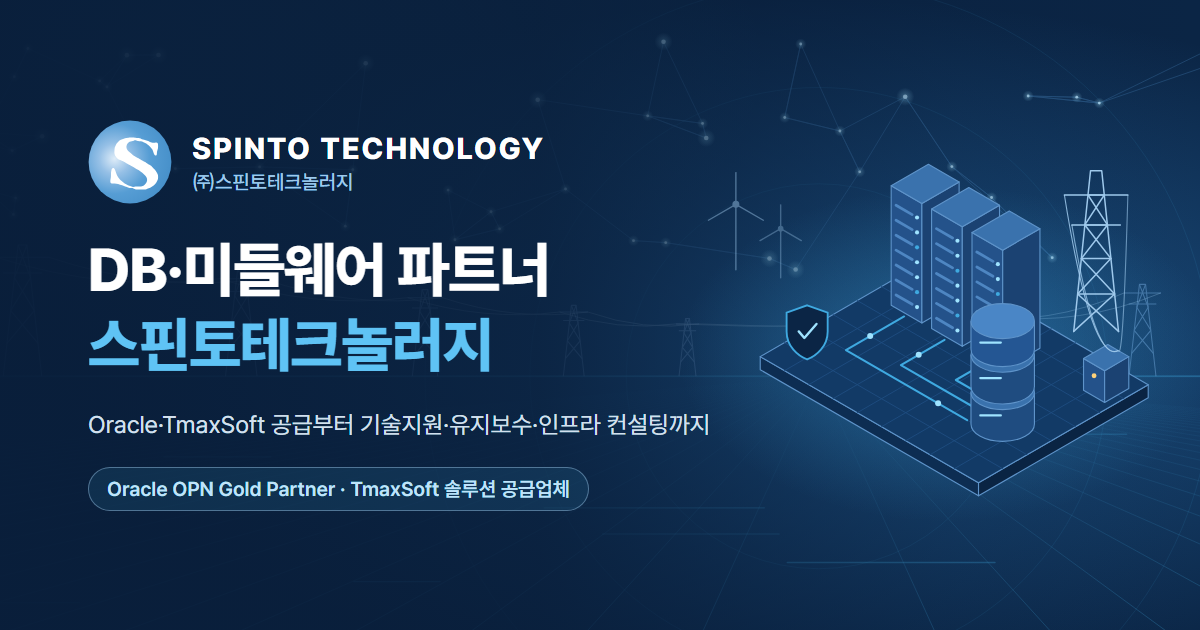
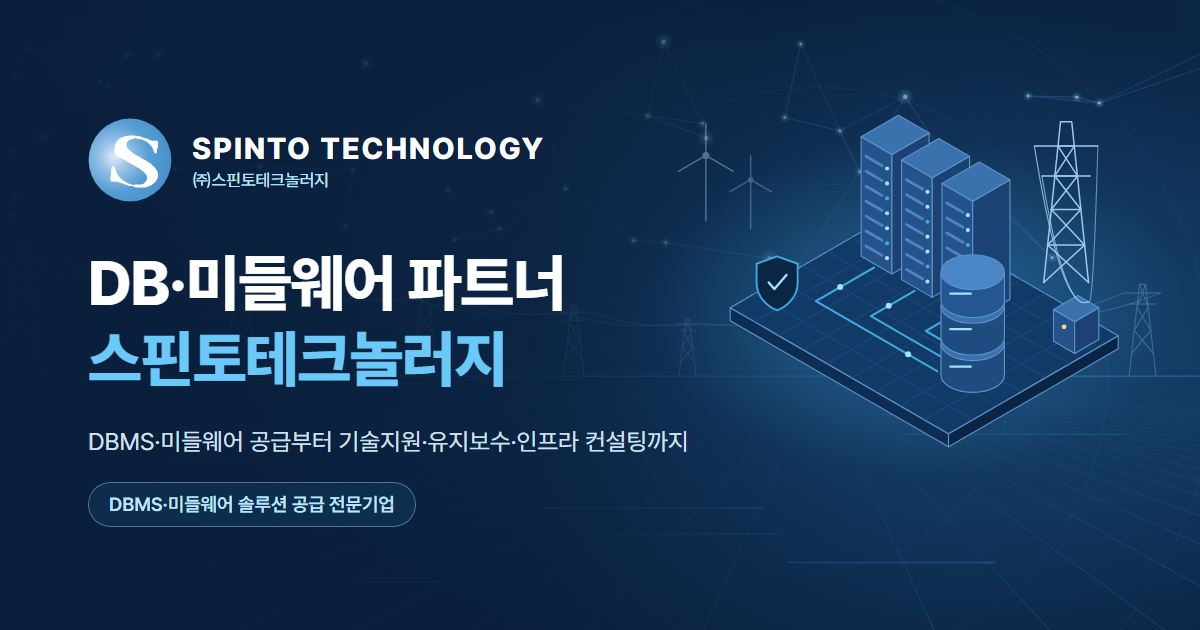
fix: 타사·고객사명 제거 및 파트너십·조직도 비공개 처리
- Hero·인사말·연혁·메타 태그에서 제조사·제품·고객사명을 일반 표현으로 교체
- 공유 미리보기 이미지(og-image) 문구 교체
- 회사개요 파트너십 섹션 삭제, 조직도는 주석 처리

diff --git a/src/data/company.ts b/src/data/company.ts
@@ -52,21 +52,21 @@ export const greeting = {
   title: ["데이터가 멈추지 않는 내일을 위해,", "기술로 신뢰를 지키겠습니다"],
   body: [
     "안녕하십니까. ㈜스핀토테크놀러지 대표이사 이현석입니다.",
-    "스핀토테크놀러지는 2009년 설립 이후 데이터베이스 관리 시스템(DBMS)과 시스템 통합(SI) 분야에 집중해 왔습니다. Oracle과 TmaxSoft의 공식 파트너로서 제품 공급부터 기술지원, 유지보수, 인프라 컨설팅까지 고객의 IT 환경 전반을 함께 책임지고 있습니다.",
-    "데이터베이스와 미들웨어는 겉으로 드러나지 않지만, 조직의 모든 업무가 그 위에서 움직입니다. 그래서 저희는 화려한 약속보다 묵묵한 안정성을 가장 중요하게 여깁니다. 전체 인력의 75%를 전문 기술인력으로 구성하고, 한국전력과 발전사를 비롯한 공공·민간 고객의 시스템을 현장에서 직접 지원해 온 것도 그 때문입니다.",
+    "스핀토테크놀러지는 2009년 설립 이후 데이터베이스 관리 시스템(DBMS)과 시스템 통합(SI) 분야에 집중해 왔습니다. 제품 공급부터 기술지원, 유지보수, 인프라 컨설팅까지 고객의 IT 환경 전반을 함께 책임지고 있습니다.",
+    "데이터베이스와 미들웨어는 겉으로 드러나지 않지만, 조직의 모든 업무가 그 위에서 움직입니다. 그래서 저희는 화려한 약속보다 묵묵한 안정성을 가장 중요하게 여깁니다. 전체 인력의 75%를 전문 기술인력으로 구성하고, 고객의 시스템을 현장에서 직접 지원해 온 것도 그 때문입니다.",
     "이제 저희는 축적된 데이터 운영 경험을 바탕으로 AI·빅데이터 분야로 영역을 넓혀 가고 있습니다. 변화하는 기술 환경 속에서도 고객이 가장 먼저 찾는 기술 파트너가 되도록 끊임없이 배우고 준비하겠습니다.",
     "스핀토테크놀러지에 보내주시는 관심과 신뢰에 깊이 감사드립니다.",
   ],
   bodyShort: [
-    "스핀토테크놀러지는 2009년 설립 이후 DBMS와 시스템 통합(SI) 분야에 집중해 온 Oracle·TmaxSoft 전문 파트너입니다. 제품 공급부터 유지보수까지 고객의 IT 환경을 함께 책임지고 있습니다.",
-    "전문 기술인력 중심의 조직으로 공공·민간 고객의 시스템을 지원해 왔으며, 이제 AI·빅데이터로 영역을 넓혀 가고 있습니다. 고객이 가장 먼저 찾는 기술 파트너가 되겠습니다.",
+    "스핀토테크놀러지는 2009년 설립 이후 DBMS와 시스템 통합(SI) 분야에 집중해 온 DB·미들웨어 전문 파트너입니다. 제품 공급부터 유지보수까지 고객의 IT 환경을 함께 책임지고 있습니다.",
+    "전문 기술인력 중심의 조직으로 고객의 시스템을 지원해 왔으며, 이제 AI·빅데이터로 영역을 넓혀 가고 있습니다. 고객이 가장 먼저 찾는 기술 파트너가 되겠습니다.",
   ],
 } as const;
 
 // 메인 Hero 문구 — 배지(데스크톱/모바일 길이 다름)와 신뢰 포인트 체크 항목
 export const heroContent = {
-  badge: "Oracle OPN Gold Partner · TmaxSoft 솔루션 공급업체",
-  badgeShort: "Oracle OPN Gold Partner · TmaxSoft 공급업체",
-  description: "2009년 설립 이후 데이터베이스 관리 시스템과 시스템 통합(SI) 한 분야에 집중해 왔습니다. 한전·발전사를 비롯한 공공·민간 고객의 데이터 환경을 설계부터 운영까지 책임집니다.",
-  checks: ["한전·한수원·한전KDN 협력업체", "Oracle Exadata 공급업체", "전문 기술인력 75%"],
+  badge: "DBMS·미들웨어 솔루션 공급 전문기업",
+  badgeShort: "DBMS·미들웨어 솔루션 전문기업",
+  description: "2009년 설립 이후 데이터베이스 관리 시스템과 시스템 통합(SI) 한 분야에 집중해 왔습니다. 고객의 데이터 환경을 설계부터 운영까지 책임집니다.",
+  checks: ["DB·미들웨어 기술지원·유지보수", "DB 전용 어플라이언스 공급", "전문 기술인력 75%"],
 } as const;

diff --git a/src/pages/company/Overview.tsx b/src/pages/company/Overview.tsx
@@ -1,12 +1,7 @@
 import PageHero from "../../components/PageHero";
 import NaverMap from "../../components/NaverMap";
 import { company, greeting } from "../../data/company";
-import { orgTeams, partnerships } from "../../data/org";
-
-const tabs = [
-  { label: "회사개요", path: "/company/overview" },
-  { label: "연혁", path: "/company/history" },
-];
+// import { orgTeams } from "../../data/org";
 
 export default function Overview() {
   return (
@@ -14,8 +9,7 @@ export default function Overview() {
       <PageHero
         crumbs={[{ label: "홈", path: "/" }, { label: "회사소개" }, { label: "회사개요" }]}
         title="회사개요"
-        desc="공공·에너지 분야 IT 인프라를 공급하고 운영하는 스핀토테크놀러지를 소개합니다."
-        tabs={tabs}
+        desc="IT 인프라를 공급하고 운영하는 스핀토테크놀러지를 소개합니다."
       />
 
       {/* 인사말 */}
@@ -71,7 +65,7 @@ export default function Overview() {
         </div>
       </section>
 
-      {/* 조직도 */}
+      {/* 조직도 — 자료 확정 전까지 비공개. 다시 열 때 주석과 아래 orgTeams import 주석을 함께 해제
       <section className="mx-auto max-w-container px-6 py-section-mobile sm:py-section">
         <h2 className="text-[28px] font-bold text-navy sm:text-[32px]">조직도</h2>
         <p className="mt-2 text-muted">
@@ -93,23 +87,7 @@ export default function Overview() {
           ))}
         </div>
       </section>
-
-      {/* 파트너십·협력업체 등록 */}
-      <section className="bg-section">
-        <div className="mx-auto max-w-container px-6 py-section-mobile sm:py-section">
-          <h2 className="text-[28px] font-bold text-navy sm:text-[32px]">파트너십·협력업체 등록</h2>
-          <p className="mt-2 text-muted">제조사와 공공기관이 인정한 공급 자격</p>
-          <div className="mt-8 grid grid-cols-1 gap-4 sm:grid-cols-3">
-            {partnerships.map((p) => (
-              <div key={p.title} className="rounded border border-line bg-white p-6">
-                <p className="text-xs font-medium text-brand">{p.group}</p>
-                <h3 className="mt-2 font-bold text-navy">{p.title}</h3>
-                <p className="mt-1 text-sm text-muted">{p.desc}</p>
-              </div>
-            ))}
-          </div>
-        </div>
-      </section>
+      */}
 
       {/* 오시는 길 */}
       <section className="mx-auto max-w-container px-6 py-section-mobile sm:py-section">

diff --git a/src/data/history.ts b/src/data/history.ts
@@ -4,21 +4,16 @@ export type HistoryItem = {
   confirmed: boolean;
 };
 
-// 연혁 13개 항목 — 회사소개서 2p 순서 그대로. 연도는 설립연도(2009)만 확인됨, 나머지는 자료 확정 전 20XX (기획안.pdf 3p)
+// 연혁 — 회사소개서 2p 순서 기준. 타사·고객사명은 노출하지 않기로 해 분야명으로 일반화하고, 같은 성격의 등록·계약은 한 줄로 합침. 연도는 설립연도(2009)만 확인됨, 나머지는 자료 확정 전 20XX (기획안.pdf 3p)
 const rawHistory: [string, string][] = [
   ["2009", "스핀토테크놀러지 법인 설립"],
-  ["", "포시에스 리포트 솔루션 공급업체 계약"],
-  ["", "펜타시스템 모니터링 솔루션 공급업체 계약"],
-  ["", "효성인포메이션 Business Partner 계약"],
-  ["", "Oracle OPN 골드 파트너십 체결"],
-  ["", "TmaxSoft 솔루션 공급업체 등록"],
-  ["", "넷컴솔루션 Business Partner 계약"],
-  ["", "태건에스엔아이 Business Partner 계약"],
-  ["", "한전KDN 협력업체 등록"],
-  ["", "한국전력공사 협력업체 등록"],
-  ["", "한국수력원자력 협력업체 등록"],
-  ["", "Oracle Exadata 공급업체 등록"],
-  ["", "아크로니스 백업솔루션 공급업체 계약"],
+  ["", "리포트 솔루션 공급업체 계약"],
+  ["", "모니터링 솔루션 공급업체 계약"],
+  ["", "글로벌 DBMS 제조사 골드 파트너십 체결"],
+  ["", "국산 DBMS·미들웨어 솔루션 공급업체 등록"],
+  ["", "IT 인프라 기업 Business Partner 계약"],
+  ["", "DB 전용 어플라이언스 공급업체 등록"],
+  ["", "백업 솔루션 공급업체 계약"],
 ];
 
 export const historyItems: HistoryItem[] = rawHistory.map(([year, text]) => ({

diff --git a/index.html b/index.html
@@ -4,7 +4,7 @@
     <meta charset="UTF-8" />
     <link rel="icon" type="image/svg+xml" href="/src/assets/spinto-symbol.svg" />
     <meta name="viewport" content="width=device-width, initial-scale=1.0" />
-    <title>스핀토테크놀러지 | Oracle·TmaxSoft 공공 IT 인프라 파트너</title>
+    <title>스핀토테크놀러지 | DB·미들웨어 IT 인프라 파트너</title>
     <meta
       name="description"
       content="ICT 산업의 선두기업 스핀토테크놀러지"
@@ -13,8 +13,8 @@
          카카오톡은 상대 경로 og:image를 못 읽어서 배포 주소 기준 절대 경로로 둠 — 도메인이 바뀌면 같이 교체 -->
     <meta property="og:type" content="website" />
     <meta property="og:site_name" content="스핀토테크놀러지" />
-    <meta property="og:title" content="스핀토테크놀러지 | Oracle·TmaxSoft 공공 IT 인프라 파트너" />
-    <meta property="og:description" content="Oracle·TmaxSoft 제품 공급부터 기술지원, 유지보수, 인프라 컨설팅까지 한 팀이 책임집니다." />
+    <meta property="og:title" content="스핀토테크놀러지 | DB·미들웨어 IT 인프라 파트너" />
+    <meta property="og:description" content="DBMS·미들웨어 제품 공급부터 기술지원, 유지보수, 인프라 컨설팅까지 한 팀이 책임집니다." />
     <meta property="og:url" content="https://spintotech.pages.dev/" />
     <meta property="og:image" content="https://spintotech.pages.dev/og-image.png" />
     <meta property="og:image:width" content="1200" />

diff --git a/src/data/org.ts b/src/data/org.ts
@@ -7,11 +7,11 @@ export type OrgTeam = {
 export const orgTeams: OrgTeam[] = [
   {
     name: "솔루션사업팀",
-    roles: ["Oracle 솔루션 영업", "TmaxSoft 솔루션 영업", "모니터링·백업 솔루션 영업"],
+    roles: ["DBMS 솔루션 영업", "미들웨어 솔루션 영업", "모니터링·백업 솔루션 영업"],
   },
   {
     name: "기술지원팀",
-    roles: ["Oracle 기술지원", "TmaxSoft 기술지원", "유지보수 기술지원"],
+    roles: ["DBMS 기술지원", "미들웨어 기술지원", "유지보수 기술지원"],
   },
   {
     name: "SI 영업팀",
@@ -33,9 +33,8 @@ export type Partnership = {
   desc: string;
 };
 
-// 파트너십·협력업체 등록 — 회사개요 페이지용
+// 제조사 파트너십 — 회사개요 페이지용
 export const partnerships: Partnership[] = [
-  { group: "제조사 파트너", title: "Oracle OPN 골드 파트너", desc: "Oracle Exadata 공급업체 등록" },
-  { group: "제조사 파트너", title: "TmaxSoft 솔루션 공급업체", desc: "Tibero · JEUS · WebtoB" },
-  { group: "공공기관 협력업체", title: "한국전력공사 · 한전KDN", desc: "한국수력원자력 협력업체 등록" },
+  { group: "제조사 파트너", title: "글로벌 DBMS 제조사 골드 파트너", desc: "DB 전용 어플라이언스 공급업체 등록" },
+  { group: "제조사 파트너", title: "국산 DBMS·미들웨어 공급업체", desc: "DBMS · WAS · 웹서버 솔루션" },
 ];

diff --git a/src/pages/company/History.tsx b/src/pages/company/History.tsx
@@ -13,7 +13,7 @@ export default function History() {
       <PageHero
         crumbs={[{ label: "홈", path: "/" }, { label: "회사소개" }, { label: "연혁" }]}
         title="연혁"
-        desc="2009년 설립 이후 제조사·공공기관과 쌓아온 파트너십의 기록입니다."
+        desc="2009년 설립 이후 제조사와 쌓아온 파트너십의 기록입니다."
         tabs={tabs}
       />
 
@@ -22,7 +22,7 @@ export default function History() {
           {FOUNDED_YEAR} – {CURRENT_YEAR}
         </h2>
         <p className="mt-2 text-muted">
-          법인 설립부터 Oracle 골드 파트너, 한전·한수원 협력업체 등록까지 이어진 17년입니다.
+          법인 설립부터 제조사 골드 파트너십, DB 어플라이언스 공급업체 등록까지 이어진 {CURRENT_YEAR - FOUNDED_YEAR}년입니다.
         </p>
 
         <ol className="relative mt-10 border-l border-line pl-8">
